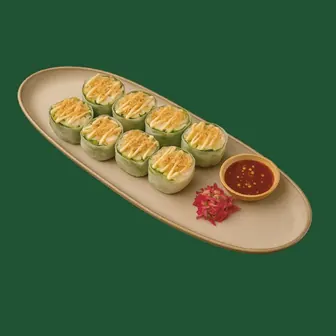
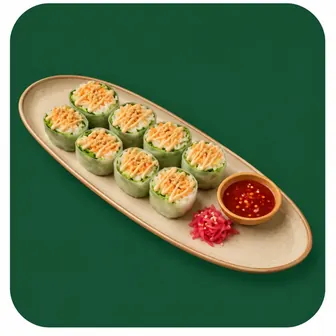
Update photo — Rouleaux de Printemps (8 pcs)

diff --git a/src/data/yumloMenu.ts b/src/data/yumloMenu.ts
@@ -303,7 +303,7 @@ export const YUMLO_MENU = [
     "description": "Au choix : végétarien, poulet ou crevettes — 8 pièces, sauce au choix.",
     "priceMAD": "39.00",
     "currency": "MAD",
-    "image": "/menu-hd-onglet2/rouleau-de-printemps.png",
+    "image": "/menu-hd-onglet2/rouleau-de-printemps.jpg",
     "variants": [
       { "id": "vegetarien", "label": "Végétarien", "priceMAD": "29.00" },
       { "id": "poulet", "label": "Poulet", "priceMAD": "39.00" },

diff --git a/src/data/dishImages.ts b/src/data/dishImages.ts
@@ -8,7 +8,7 @@ export const CLIENT_DISH_IMAGES: Record<string, string> = {
   // Nems & Gyoza & Rouleaux de printemps (visuels client WhatsApp 13.27.28)
   "a720b7b300": "/menu-hd-onglet2/nems.png",
   "a1aee64eaf": "/menu-hd-onglet2/gyoza.png",
-  "76d7875ff7": "/menu-hd-onglet2/rouleau-de-printemps.png",
+  "76d7875ff7": "/menu-hd-onglet2/rouleau-de-printemps.jpg",
   "da996bc4a5": "/menu-hd-onglet2/bouchees-vapeur.jpg",
 
   // Starters
